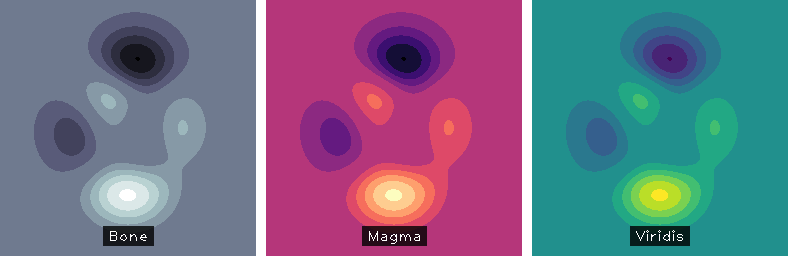
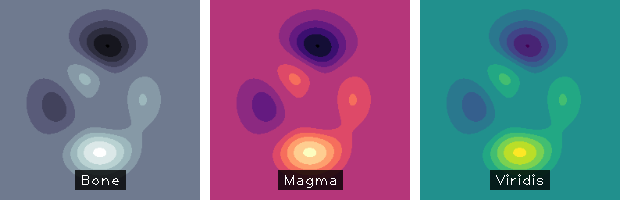
update visuals

diff --git a/examples/python3/imvis_demo.py b/examples/python3/imvis_demo.py
@@ -125,7 +125,7 @@ def demo_pseudocolor():
     padding = 10
     # Add alpha channel to render the collage nicely for the repo's README
     images[0] = np.dstack((images[0], 255*np.ones(images[0].shape[:2], dtype=np.uint8)))
-    collage = imvis.make_collage(images, padding=padding, bg_color=(0, 0, 0, 0), num_images_per_row=len(images))
+    collage = imvis.make_collage(images, padding=padding, fixed_size_per_image=(200, 200), bg_color=(0, 0, 0, 0), num_images_per_row=len(images))
 
     # Add labels
     height, width = collage.shape[:2]
